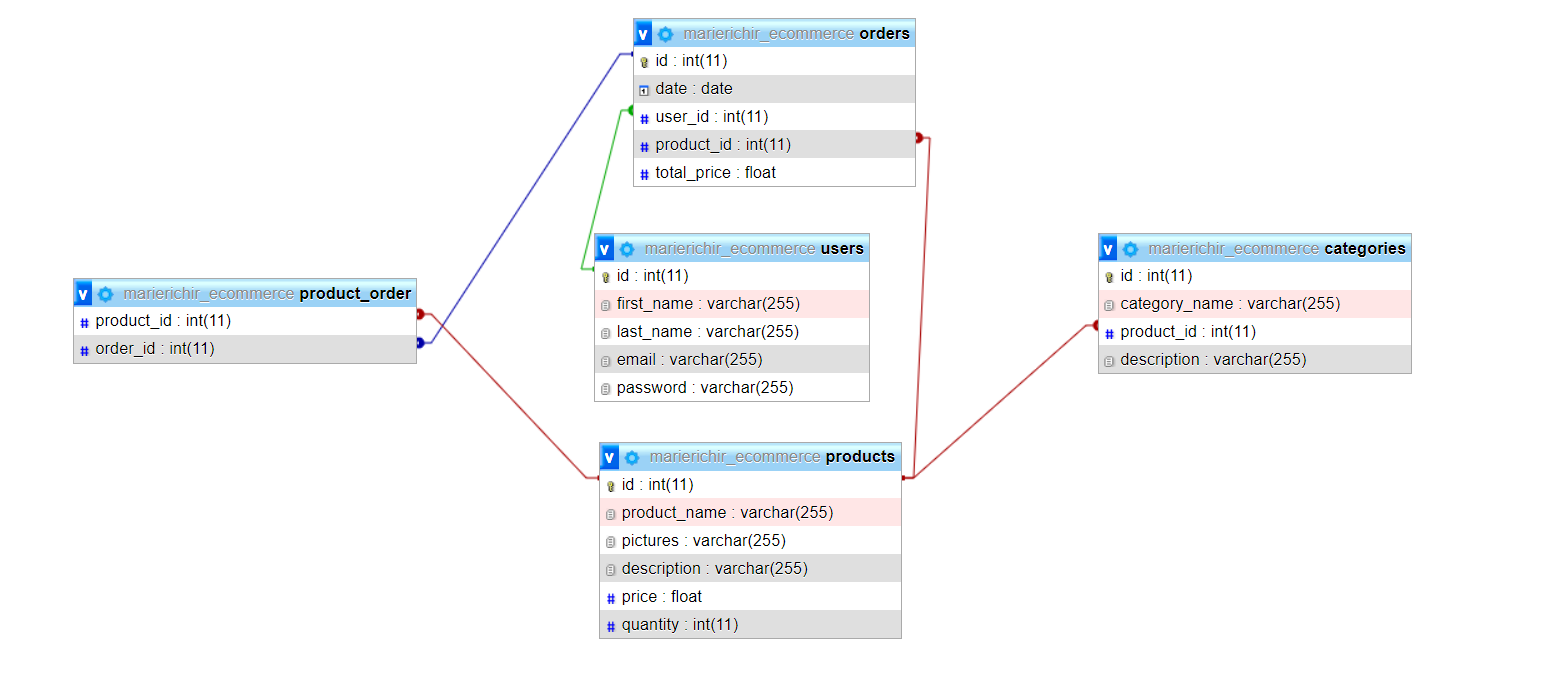
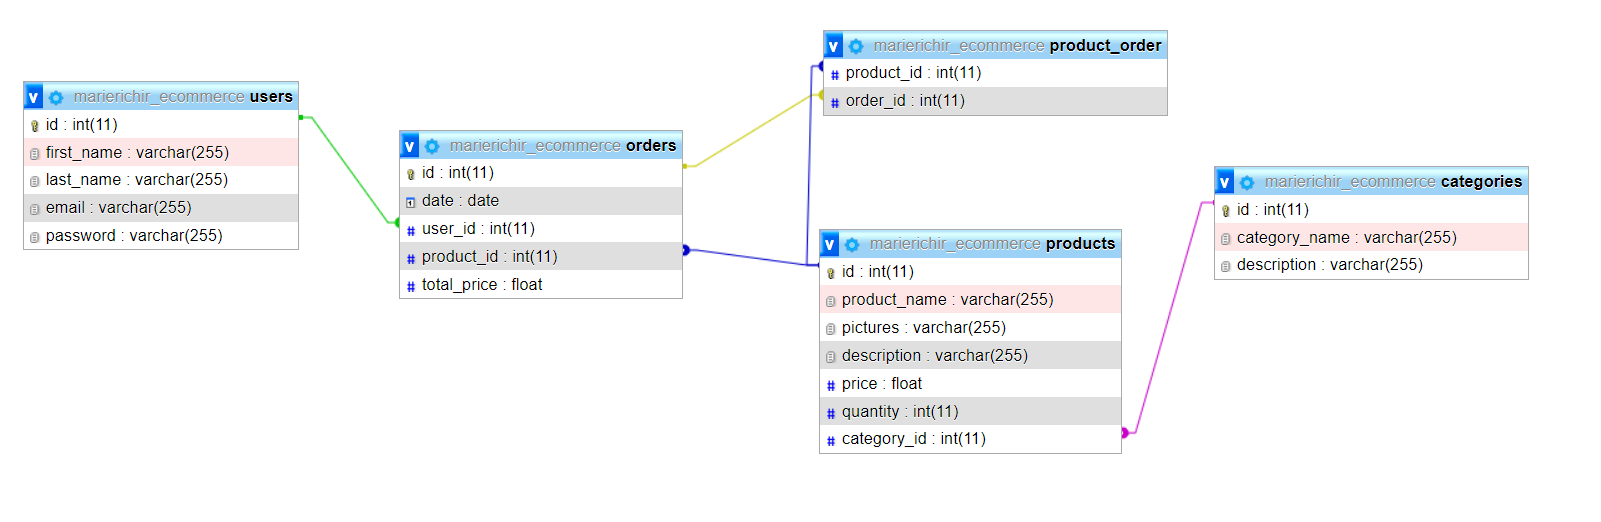
Doing little things on differents files, correcting an error on the class Category

Changed region(s): [[0.0, 0.0, 0.9569, 0.9502]]

diff --git a/managers/ProductManager.php b/managers/ProductManager.php
@@ -14,14 +14,15 @@ class ProductManager extends AbstractManager {
     // Create a product and send it in the database
     public function createProduct(Product $product) : Product
     {
-        $query=$this->db->prepare("INSERT INTO products (product_name, picture, description, price, quantity)
-                  VALUES (:name, :picture, :description, :price, :quantity)");
+        $query=$this->db->prepare("INSERT INTO products (product_name, picture, description, price, quantity, category_id)
+                  VALUES (:name, :picture, :description, :price, :quantity, :category)");
         $parameters = [
             'name' => $product->getName(),
             'picture' => $product->getPicture(),
             'description' => $product->getDescription(),
             'price' => $product->getPrice(),
-            'quantity' => $product->getQuantity()
+            'quantity' => $product->getQuantity(),
+            'category' => $product->getCategory()->getId()
         ];
 
         $query->execute($parameters);
@@ -34,13 +35,14 @@ class ProductManager extends AbstractManager {
     // If we want to edit a product
     public function editProduct(Product $product) : void
     {
-        $query=$this->db->prepare("UPDATE products SET product_name = :name, pictures = :picture, description = :description, price = :price, quantity = :quantity");
+        $query=$this->db->prepare("UPDATE products SET product_name = :name, pictures = :picture, description = :description, price = :price, quantity = :quantity, category_id = :category");
         $parameters = [
             'name' => $product->getName(),
             'picture' => $product->getPicture(),
             'description' => $product->getDescription(),
             'price' => $product->getPrice(),
-            'quantity' => $product->getQuantity()
+            'quantity' => $product->getQuantity(),
+            'category' => $product->getCategory()->getId()
         ];
         $query->execute($parameters);
     }
@@ -53,7 +55,7 @@ class ProductManager extends AbstractManager {
         $query->execute($parameters);
         $product = $query->fetch(PDO::FETCH_ASSOC);
 
-        $newProd = new Product($product['product_name'], $product['pictures'], $product['description'], $product['price'], $product['quantity']);
+        $newProd = new Product($product['product_name'], $product['pictures'], $product['description'], $product['price'], $product['quantity'], $product['category_id']);
 
         return $newProd;
     }
@@ -74,7 +76,7 @@ class ProductManager extends AbstractManager {
         $query->execute($parameters);
 
         $result=$query->fetch(PDO::FETCH_ASSOC);
-        $product = new Product($result['product_name'], $result['pictures'], $result['description'], $result['price'], $result['quantity']);
+        $product = new Product($result['product_name'], $result['pictures'], $result['description'], $result['price'], $result['quantity'], $result['category_id']);
 
         return $product;
     }

diff --git a/controllers/ProductController.php b/controllers/ProductController.php
@@ -20,7 +20,7 @@ class ProductController extends AbstractController {
     // To render the
     public function createProduct()
     {
-        $this->render('products/index.phtml', []);
+        $this->render('products/create.phtml', []);
         if(isset($_POST['submit-new-product']))
         {
             $name = $_POST['name'];
@@ -28,12 +28,21 @@ class ProductController extends AbstractController {
             $description = $_POST['description'];
             $price = $_POST['price'];
             $quantity = $_POST['quantity'];
+            $catID = $_POST['category'];
+            $category = $this->cm->getCategoryById($catId);
+
+            $product = new Product($name, $picture, $description, $price, $quantity, $category);
+            $this->pm->createProduct($product);
+
+            header("Location:index.php?route=homepage");
         }
     }
 
+    // To have all the products by Category
     public function productsByCategory()
     {
-        $this->cm->getCategoryById(); //Put the id in parameter
+        $id =
+        $this->cm->getCategoryById($id); //Put the id in parameter
         $products = $this->pm->getProductByCategory(); //Put the name of the category in parameter
         $this->render('categories/category.phtml', $products);
     }

diff --git a/models/Category.php b/models/Category.php
@@ -4,14 +4,12 @@ class Category {
     private ?int $id;
     private string $name;
     private string $description;
-    private Product $product;
 
     public function __construct(string $name, string $description)
     {
         $this->id = null;
         $this->name = $name;
         $this->description = $description;
-        $this->product = $product;
     }
 
     public function getId() : ?int
@@ -39,15 +37,6 @@ class Category {
     public function setDescription(string $description) : void
     {
         $this->description = $description;
-    }
-
-    public function getProduct() : Product
-    {
-        return $this->product;
-    }
-    public function setProduct(Product $product) : void
-    {
-        $this->product = $product;
     }
 }
 

diff --git a/managers/CategoryManager.php b/managers/CategoryManager.php
@@ -43,10 +43,9 @@ class CategoryManager extends AbstractManager {
 
     public function editCategory(Category $category) : void
     {
-        $query=$this->db->prepare("UPDATE categories SET category_name = :name, product_id = :product, description = :description");
+        $query=$this->db->prepare("UPDATE categories SET category_name = :name, description = :description");
         $parameters=[
             'name' => $category->getName(),
-            'product' => $category->getProduct->getId(),
             'description' => $category->getDescription()
         ];
         $query->execute($parameters);

diff --git a/controllers/CategoryController.php b/controllers/CategoryController.php
@@ -13,6 +13,17 @@ class CategoryController extends AbstractController {
         $categories = $this->cm->getAllCategories();
         $this->render('categories/index.phtml', $categories);
     }
+
+    public function createCategory()
+    {
+        $this->render('categories/create.phtml', []);
+        if(isset($_POST['submit-new-category']))
+        {
+            $category = new Category($_POST['name'], $_POST['description']);
+            $newCat = $this->cm->createCategory($category);
+            header("Location:index.php?route=homepage");
+        }
+    }
 }
 
 ?>

diff --git a/services/Router.php b/services/Router.php
@@ -38,6 +38,10 @@ class Router {
             {
                 $this->productController->productsByCategory();
             }
+            else if($_GET['route'] === "create-category")
+            {
+                $this->categoryController->createCategory();
+            }
         }
         else
         {

diff --git a/index.php b/index.php
@@ -17,7 +17,7 @@ $oc = new OrderController($om);
 if(isset($_GET['route']))
 {
     require 'services/Router.php';
-    $router = new Router($$uc, $pc, $cc, $oc);
+    $router = new Router($uc, $pc, $cc, $oc);
     $router->checkRoute();
 }
 
